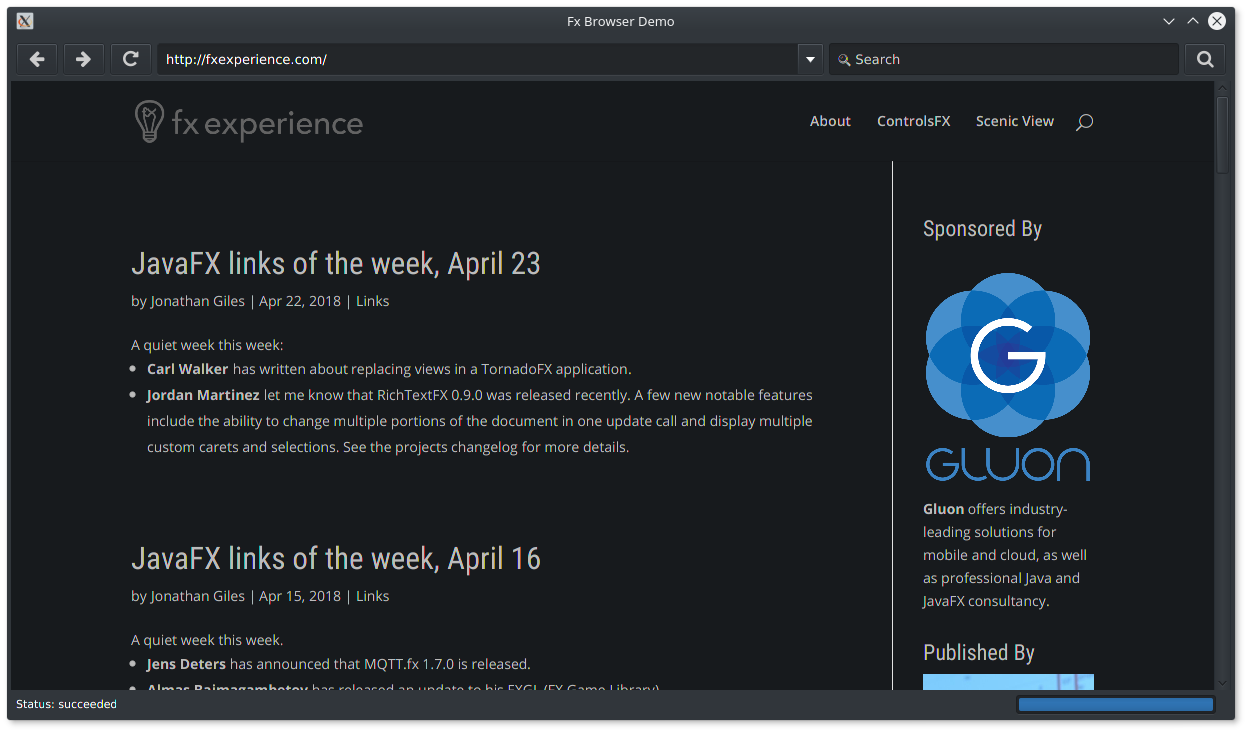
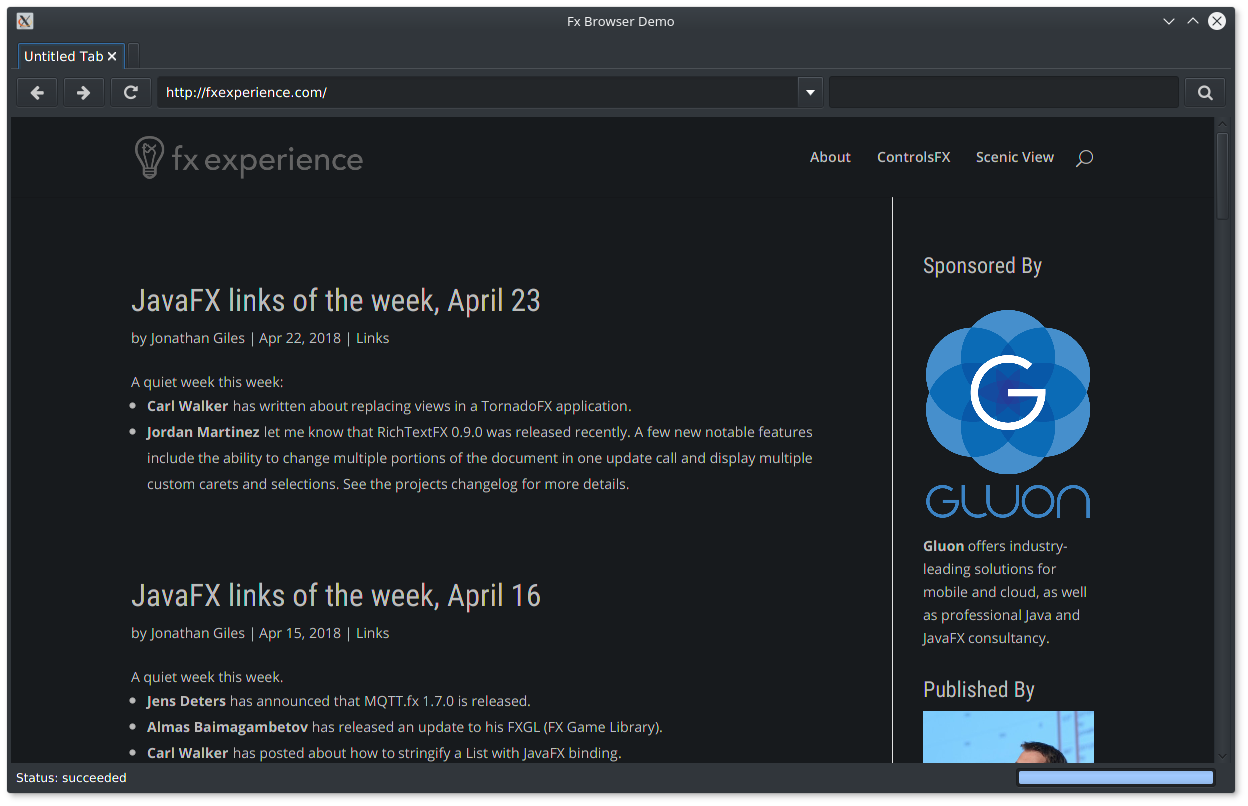
format and open new tab comming soon

diff --git a/src/main/resources/style/webcontroller.css b/src/main/resources/style/webcontroller.css
@@ -1,6 +1,6 @@
 .root{
     -fx-base: #31363b;
-    -fx-accent: #3073b4;
+    -fx-accent: #a0c8ff;
     -fx-background: #31363b;
     -fx-focus-color: #3073b4;
     -fx-control-inner-background: #232629;
@@ -13,8 +13,15 @@
         derive(-fx-color, -5%) 60%, 
         derive(-fx-color, -8%) 100%);
 }
-.search-text-field{
-    -fx-prompt-text-fill: derive(-fx-text-base-color, -20%);
+.search-text-field {
+    -fx-prompt-text-fill: derive(-fx-text-base-color, -28%);
+    -fx-text-fill: derive(-fx-text-base-color, -20%);
+   
+}
+
+.search-text-field .text {
+    -fx-font-family: OpenSans-Regular;
+    -fx-font-size: 13px;
 }
 .hyperlink {
     -fx-fill: -fx-text-background-color;
@@ -34,20 +41,8 @@
     -fx-background-insets: -1;
 }
 
-.log-text-area .content {
-    -fx-background-color: #192022;
-}
-.spinner .text-field:readonly {
-    -fx-background-color: #192022;
-}
-
 .toggle-button:selected {
     -fx-text-fill: -fx-text-base-color;
-}
-
-.sort-label {
-    -fx-font-family: OpenSans-Regular;
-    -fx-font-size: 14px;
 }
 
 .control-label {
@@ -57,7 +52,7 @@
 
 .status-label {
     -fx-font-family: OpenSans-Regular;
-    -fx-font-size: 11px;
+    -fx-font-size: 12px;
 }
 
 .title-bar {
@@ -101,6 +96,9 @@
     -fx-fill: -fx-text-background-color;
     -fx-text-fill: -fx-text-background-color;
 }
+.tab-pane:top .tab-header-area .tab-header-background {
+    -fx-background-color: #4b5055, #31363b, #31363b;
+}
 
 .control-button {
     -fx-background-color: linear-gradient(from 48.0% 100.0% to 50.0% 43.0%, #960505 0.0%, #C21A4D 96.0%, #C21A4D 100.0%);
@@ -115,9 +113,15 @@
     -fx-text-fill: -fx-text-base-color;
 }
 
-.url-text-field {
-    -fx-text-fill: -fx-text-base-color;
-    -fx-prompt-text-fill: #BDBDBD;
+.url-address-combo .list-cell:selected:empty .text {
+     -fx-fill: derive(-fx-text-base-color, -25%);
+}
+
+.url-address-combo .list-cell:selected:empty {
+    -fx-font-family: OpenSans-Regular;
+    -fx-font-size: 12px;
+    -fx-prompt-text-fill: derive(-fx-text-base-color, -28%);
+    -fx-text-fill: derive(-fx-text-base-color, -25%);
 }
 
 .menu-button .label {

diff --git a/src/main/java/webbrowser/WebController.java b/src/main/java/webbrowser/WebController.java
@@ -28,14 +28,12 @@ import java.util.Scanner;
  */
 public class WebController extends BorderPane implements Initializable {
 
+    @FXML private Tab initialTab, emptyTab;
     @FXML private WebView webView;
     @FXML private WebEngine webEngine;
     @FXML private ComboBox<String> addressBox;
+    @FXML private Button backButton, forwardButton, proceedButton, searchButton;
     @FXML private TextField searchField;
-    @FXML private Button backButton;
-    @FXML private Button forwardButton;
-    @FXML private Button proceedButton;
-    @FXML private Button searchButton;
     @FXML private ProgressBar progressBar;
     @FXML private Label statusLabel;
 
@@ -50,17 +48,13 @@ public class WebController extends BorderPane implements Initializable {
     private void initializeBrowser() {
         backButton.setOnAction(this::backButtonAction);
         forwardButton.setOnAction(this::forwardButtonAction);
-
         proceedButton.setOnAction(this::proceedButtonAction);
-
+        searchButton.setOnAction(this::searchButtonAction);
+        
         addressBox.setItems(FXCollections.observableArrayList());
         addressBox.setValue("http://www.fxexperience.com");
         addressBox.setOnAction(this::proceedButtonAction);
-        addressBox.setEditable(true);
-
-        searchField.setPromptText("\uD83D\uDD0D" +" Search");
-        searchButton.setOnAction(this::searchButtonAction);
-
+        
         webEngine = webView.getEngine();
         webEngine.setUserStyleSheetLocation(getClass().getResource("/style/style.css").toString());
         webEngine.load(addressBox.getValue());
@@ -79,10 +73,8 @@ public class WebController extends BorderPane implements Initializable {
         changeValue.next();
 
         // Removes url from address box
-        changeValue.getRemoved().forEach((entry) -> {
-            addressBox.getItems().remove(entry.getUrl());
-        });
-
+        changeValue.getRemoved().forEach((entry) -> addressBox.getItems().remove(entry.getUrl()));
+        
         // Add url to address box
         changeValue.getAddedSubList().stream().map((entry) -> {
             addressBox.setValue(entry.getUrl());
@@ -91,37 +83,16 @@ public class WebController extends BorderPane implements Initializable {
             addressBox.getItems().add(entry.getUrl());
         });
     }
-
-    /**
-     * Updates the progress bar loading of an URL and resources.
-     * @param ov
-     * @param old_val
-     * @param new_val
-     */
-    private void progressBarListener(ObservableValue<? extends Number> ov, Number old_val, Number new_val) {
-        progressBar.setProgress(new_val.doubleValue());
-    }
-
+    
     /**
      * Updates the status label loading of an URL and resources.
      * @param observable
      * @param oldValue
      * @param newValue
      */
-    private void stateChangeListener(ObservableValue<? extends Object> observable, Object oldValue, Object newValue) {
-        setWebpageTheme(newValue.toString().equalsIgnoreCase("SUCCEEDED")); //set website html dark theme
-        String output = newValue.toString().toLowerCase();
-        statusLabel.setText("Status: " + output);
-    }
-
-    /**
-     * Updates the address box URL when website is changed.
-     * @param observable
-     * @param oldValue
-     * @param newValue
-     */
-    private void urlChangeListener(ObservableValue<? extends String> observable, String oldValue, String newValue) {
-        addressBox.setValue(newValue);
+    private void stateChangeListener(ObservableValue<? extends Object> observable, Object ov, Object nv) {
+        setWebpageTheme(nv.toString().equalsIgnoreCase("SUCCEEDED")); //set website html dark theme
+        statusLabel.setText("Status: " + nv.toString().toLowerCase());
     }
 
     /**
@@ -145,9 +116,11 @@ public class WebController extends BorderPane implements Initializable {
      * @param event
      */
     private void searchButtonAction(ActionEvent event) {
-        String google = "http://www.google.com/search?q=" + searchField.getText();
-        webEngine.load(google.startsWith("http://") || google.startsWith("https://")
-                ? google : "http://" + google);
+        if (!searchField.getText().isEmpty()) {
+            String google = "http://www.google.com/search?q=" + searchField.getText();
+            webEngine.load(google.startsWith("http://") || google.startsWith("https://")
+                    ? google : "http://" + google);
+        }
     }
 
     /**
@@ -169,7 +142,7 @@ public class WebController extends BorderPane implements Initializable {
         if (succeeded == true) {
             // This gives the DOM Document for the web page.
             NodeList htmlTags = webEngine.getDocument().getElementsByTagName("*");
-            Attr newAttr = null;
+            Attr newAttr =null;
             for (int i = 0; i < htmlTags.getLength(); i++) {
                 newAttr = webEngine.getDocument().createAttribute("style");
                 newAttr.setValue("background-color: #171a1d; border-color: #43462b; color: #bbb; ");
